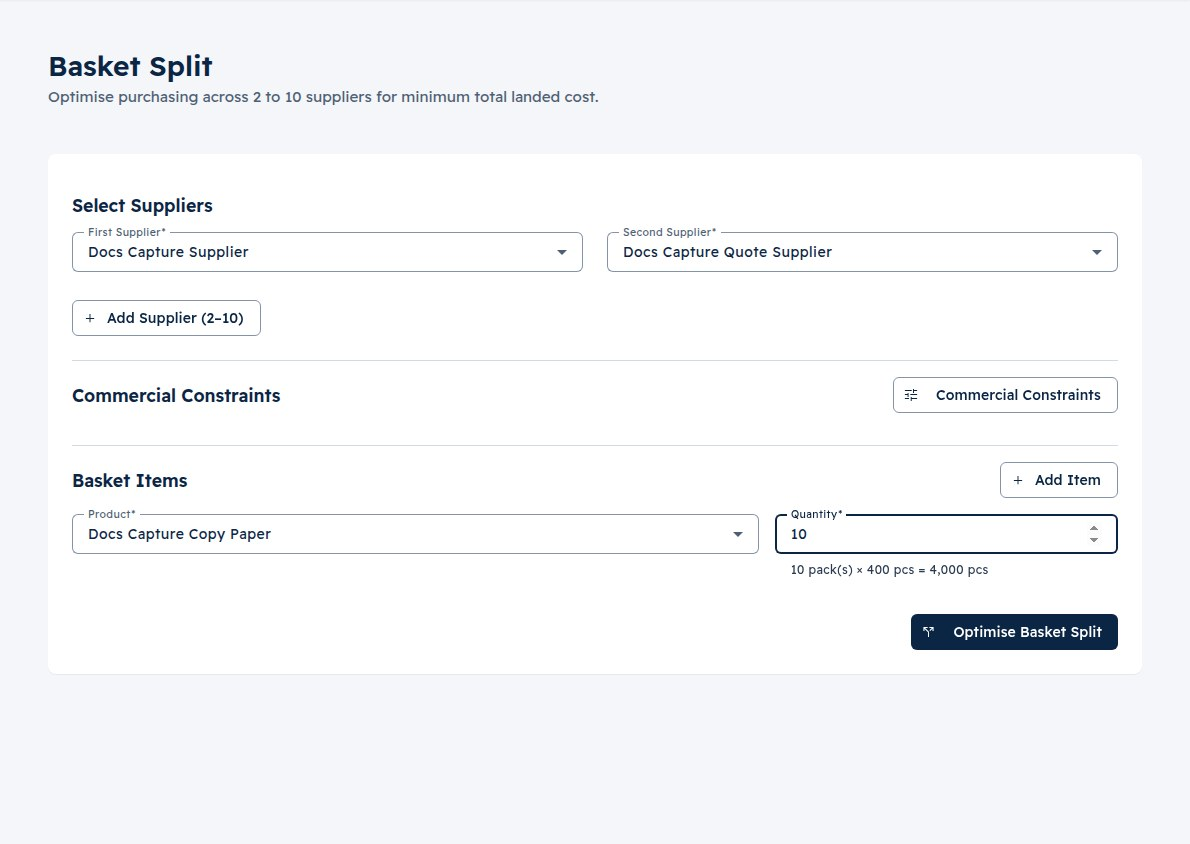
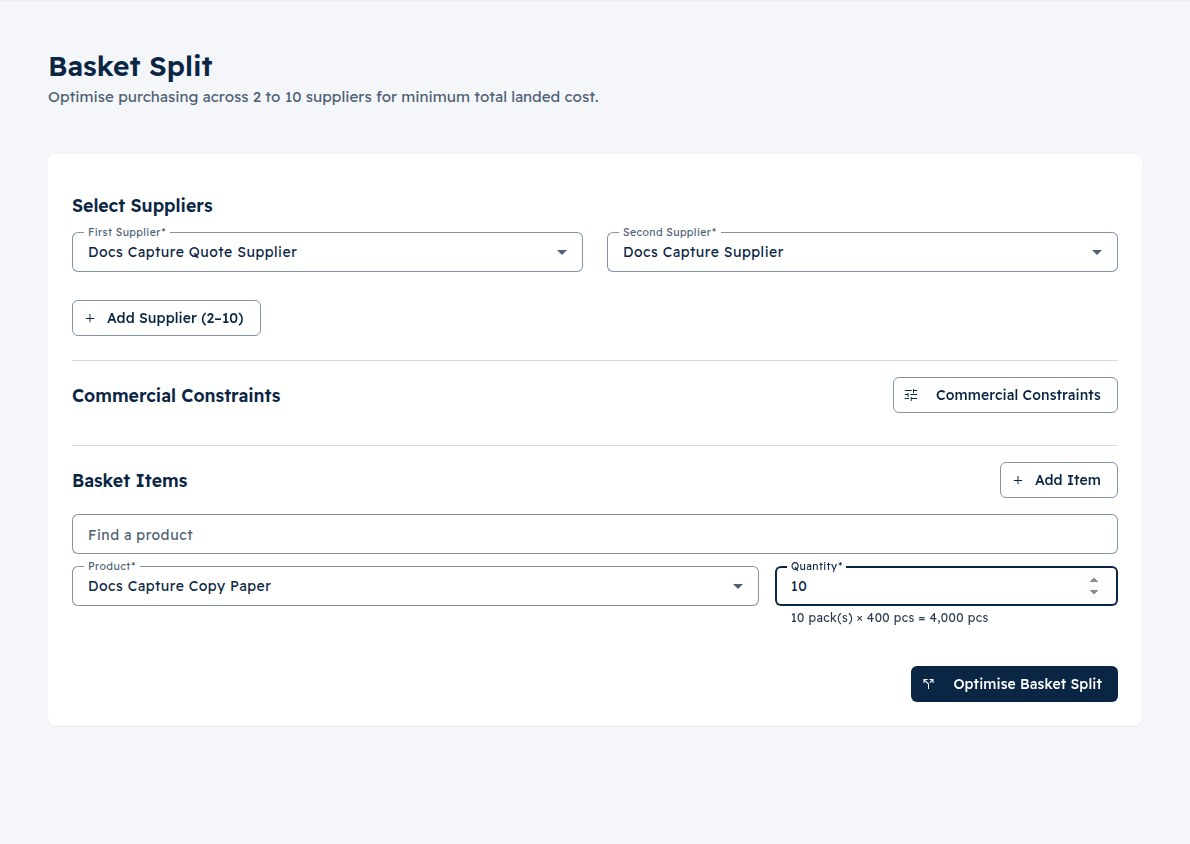
feat(basket-split): every supplier, product search and more products in the pickers (PPS-209) (#479)
* feat(basket-split): every supplier, product search and more products in the pickers (PPS-209)

* fix(basket-split): picker review fixes: names of searched products, Enter in search, rerun errors, stale answers (PPS-209)

* docs(screenshots): the basket split page now has a product search box

---------

diff --git a/apps/web/src/app/features/offers/basket-split/basket-split.component.ts b/apps/web/src/app/features/offers/basket-split/basket-split.component.ts
@@ -18,7 +18,7 @@ import { MatTableModule } from '@angular/material/table';
 import { MatTooltipModule } from '@angular/material/tooltip';
 import { ActivatedRoute, Router, RouterModule } from '@angular/router';
 import { TranslatePipe, TranslateService } from '@ngx-translate/core';
-import { Subscription, catchError, forkJoin, interval, map, of, switchMap } from 'rxjs';
+import { EMPTY, Subscription, catchError, expand, forkJoin, interval, map, of, reduce, switchMap } from 'rxjs';
 
 import { ApiService } from '../../../core/api/api.service';
 import type { ApiError, BasketSplitJobSummary, Product, Supplier } from '../../../core/api/models';
@@ -103,6 +103,13 @@ export class BasketSplitComponent implements OnInit {
   readonly rfqDetail = signal<RfqDetail | null>(null);
   readonly suppliers = signal<Supplier[]>([]);
   readonly products = signal<Product[]>([]);
+  /** Cursor for the next page of the current product list; null when it is complete. */
+  readonly productsCursor = signal<string | null>(null);
+  readonly hasMoreProducts = computed(() => this.productsCursor() !== null);
+  private productQuery = '';
+  /** Bumped by every new product search, so a slower answer to an older one is dropped. */
+  private productGeneration = 0;
+  private productSearchTimer: ReturnType<typeof setTimeout> | null = null;
   readonly isLoading = signal<boolean>(false);
   readonly isSubmitting = signal<boolean>(false);
 
@@ -265,14 +272,12 @@ export class BasketSplitComponent implements OnInit {
     this.isLoading.set(true);
     // The optimiser accepts active and preferred suppliers; both belong in the pickers.
     forkJoin({
-      active: this.api.suppliers({ limit: 100, status: 'active' }),
-      preferred: this.api.suppliers({ limit: 100, status: 'preferred' }).pipe(
-        catchError(() => of({ items: [] as Supplier[], next_cursor: null })),
-      ),
+      active: this.allSuppliers('active'),
+      preferred: this.allSuppliers('preferred').pipe(catchError(() => of([] as Supplier[]))),
     }).subscribe({
       next: ({ active, preferred }) => {
         const byId = new Map<string, Supplier>();
-        for (const supplier of [...active.items, ...preferred.items]) byId.set(supplier.id, supplier);
+        for (const supplier of [...active, ...preferred]) byId.set(supplier.id, supplier);
         const items = [...byId.values()].sort((a, b) => a.name.localeCompare(b.name));
         this.suppliers.set(items);
         if (items.length >= 2 && !this.supplierId1() && !this.supplierId2()) {
@@ -287,11 +292,71 @@ export class BasketSplitComponent implements OnInit {
     this.api.products({ limit: 100, status: 'active' }).subscribe({
       next: (res) => {
         this.products.set(res.items);
+        this.productsCursor.set(res.next_cursor);
       },
       error: () => {
         // Fallback silently if products load fails
       },
     });
+  }
+
+  /** Every page of the suppliers with this status (the API pages at 100). */
+  private allSuppliers(status: 'active' | 'preferred') {
+    return this.api.suppliers({ limit: 100, status }).pipe(
+      expand((res) =>
+        res.next_cursor ? this.api.suppliers({ limit: 100, status, cursor: res.next_cursor }) : EMPTY,
+      ),
+      reduce((all, res) => [...all, ...res.items], [] as Supplier[]),
+    );
+  }
+
+  /** Products already chosen stay available whatever the search shows. */
+  private mergeProducts(found: Product[], keepChosen = true): void {
+    const chosen = new Set(this.items().map((item) => item.workspace_product_id).filter(Boolean));
+    const byId = new Map<string, Product>();
+    for (const product of keepChosen ? this.products().filter((p) => chosen.has(p.id)) : []) byId.set(product.id, product);
+    for (const product of found) byId.set(product.id, product);
+    this.products.set([...byId.values()]);
+  }
+
+  /** Searches the catalogue by name after a short pause; an empty search lists the first page again. */
+  onProductSearch(query: string): void {
+    if (this.productSearchTimer) clearTimeout(this.productSearchTimer);
+    this.productSearchTimer = setTimeout(() => {
+      this.productQuery = query.trim();
+      const generation = ++this.productGeneration;
+      this.api
+        .products({ limit: 100, status: 'active', q: this.productQuery || undefined })
+        .pipe(takeUntilDestroyed(this.destroyRef))
+        .subscribe({
+          next: (res) => {
+            if (generation !== this.productGeneration) return;
+            this.mergeProducts(res.items);
+            this.productsCursor.set(res.next_cursor);
+          },
+          error: () => undefined, // the list stays as it was
+        });
+    }, 300);
+  }
+
+  /** The next page of the current list (all products, or the current search). */
+  loadMoreProducts(): void {
+    const cursor = this.productsCursor();
+    if (!cursor) return;
+    const generation = this.productGeneration;
+    this.api
+      .products({ limit: 100, status: 'active', cursor, q: this.productQuery || undefined })
+      .pipe(takeUntilDestroyed(this.destroyRef))
+      .subscribe({
+        next: (res) => {
+          if (generation !== this.productGeneration) return;
+          const byId = new Map(this.products().map((product) => [product.id, product] as const));
+          for (const product of res.items) byId.set(product.id, product);
+          this.products.set([...byId.values()]);
+          this.productsCursor.set(res.next_cursor);
+        },
+        error: () => undefined,
+      });
   }
 
   /** «Supplier A, Supplier B» for a history row. */
@@ -573,6 +638,7 @@ export class BasketSplitComponent implements OnInit {
           if (generation !== this.jobGeneration) return;
           this.currentJob.set(job);
           this.isLoading.set(false);
+          this.resolveMissingProducts(job);
           if (job.rfq_id) {
             this.rfqApi.getRfq(job.rfq_id).subscribe({
               next: (detail) => this.rfqDetail.set(detail),
@@ -596,6 +662,25 @@ export class BasketSplitComponent implements OnInit {
           this.handleError(err);
         },
       });
+  }
+
+  /** A job can use products beyond the first page the page loads: look those up by id. */
+  private resolveMissingProducts(job: BasketSplitJob): void {
+    const known = new Set(this.products().map((product) => product.id));
+    for (const item of job.items) {
+      if (known.has(item.workspace_product_id)) continue;
+      this.api
+        .product(item.workspace_product_id)
+        .pipe(takeUntilDestroyed(this.destroyRef))
+        .subscribe({
+          next: (product) => {
+            if (!this.products().some((p) => p.id === product.id)) {
+              this.products.set([...this.products(), product]);
+            }
+          },
+          error: () => undefined, // the id stays as the label
+        });
+    }
   }
 
   /** Starts a fresh job view: the previous job's poll and late answers must not touch it. */

diff --git a/apps/web/src/app/features/offers/basket-split/basket-split.component.spec.ts b/apps/web/src/app/features/offers/basket-split/basket-split.component.spec.ts
@@ -9,7 +9,7 @@ import { MatSelect } from '@angular/material/select';
 import { TranslateService, provideTranslateService } from '@ngx-translate/core';
 import en from '../../../../../../../packages/i18n/en.json';
 import ar from '../../../../../../../packages/i18n/ar.json';
-import { of, throwError } from 'rxjs';
+import { Subject, of, throwError } from 'rxjs';
 
 import { ApiService } from '../../../core/api/api.service';
 import { RfqApi } from '../../rfq/rfq-api';
@@ -125,9 +125,12 @@ describe('BasketSplitComponent (US3, T045)', () => {
       'products',
       'optimiseBasket',
       'getBasketSplitJob',
+      'product',
       'listBasketSplitJobs',
     ]);
 
+    // Looking up a product the page has not loaded fails by default; the label stays the id.
+    apiService.product.and.returnValue(throwError(() => new Error('unknown product')));
     apiService.listBasketSplitJobs.and.returnValue(of({ items: [], next_cursor: null }));
 
     mockRfqApi = jasmine.createSpyObj<RfqApi>('RfqApi', ['getRfq']);
@@ -1203,6 +1206,106 @@ describe('BasketSplitComponent (US3, T045)', () => {
       );
       expect(component.rerunNotice()).toBeFalse();
     });
+
+    // PPS-209: only the first 100 products and suppliers could be picked.
+    it('follows the supplier cursors so every supplier can be chosen', () => {
+      apiService.suppliers.and.callFake(((params?: { status?: string; cursor?: string }) => {
+        if (params?.status === 'preferred') return of({ items: [], next_cursor: null });
+        return params?.cursor === 'p2'
+          ? of({ items: [{ id: 'supp-3', name: 'Supplier Gamma', status: 'active', created_at: '' }], next_cursor: null })
+          : of({ items: [{ id: 'supp-1', name: 'Supplier Alpha', status: 'active', created_at: '' }], next_cursor: 'p2' });
+      }) as never);
+
+      component.loadSuppliersAndProducts();
+
+      expect(component.suppliers().map((x) => x.id)).toEqual(['supp-1', 'supp-3']);
+    });
+
+    it('loads further pages of products on request and does not duplicate any', () => {
+      const prod = (id: string) => ({ id, tenant_name: id, canonical_name: id, base_unit: 'EA', pack: { pack_count: 1, unit_size: '1' }, status: 'active', created_at: '' });
+      apiService.products.and.returnValues(
+        of({ items: [prod('prod-1')], next_cursor: 'c2' }) as never,
+        of({ items: [prod('prod-1'), prod('prod-2')], next_cursor: null }) as never,
+      );
+      component.loadSuppliersAndProducts();
+      expect(component.hasMoreProducts()).toBeTrue();
+
+      component.loadMoreProducts();
+
+      expect(apiService.products).toHaveBeenCalledWith(jasmine.objectContaining({ cursor: 'c2' }));
+      expect(component.products().map((x) => x.id)).toEqual(['prod-1', 'prod-2']);
+      expect(component.hasMoreProducts()).toBeFalse();
+    });
+
+    // Review: Enter in the search box submitted the whole basket form.
+    it('does not submit the basket when Enter is pressed in the product search', () => {
+      fixture.detectChanges();
+      const input = (fixture.nativeElement as HTMLElement).querySelector('[data-testid="product-search"]') as HTMLInputElement;
+      const event = new KeyboardEvent('keydown', { key: 'Enter', cancelable: true });
+      input.dispatchEvent(event);
+      expect(event.defaultPrevented).toBeTrue();
+    });
+
+    // Review: a product found by search is not in the first 100 the job page loads.
+    it('resolves the name of a job item whose product is not in the loaded list', () => {
+      component.products.set([]);
+      apiService.product.and.returnValue(
+        of({ id: 'prod-9', tenant_name: 'Basmati rice', canonical_name: 'rice', base_unit: 'EA', pack: { pack_count: 1, unit_size: '1' }, status: 'active', created_at: '' } as unknown as import('../../../core/api/models').Product),
+      );
+      apiService.getBasketSplitJob.and.returnValue(
+        of({ ...mockFeasibleJob, items: [{ workspace_product_id: 'prod-9', quantity: '3.000000' }] }),
+      );
+
+      component.fetchJob('job-1');
+
+      expect(apiService.product).toHaveBeenCalledWith('prod-9');
+      expect(component.getProductName('prod-9')).toBe('Basmati rice');
+    });
+
+    // Review: a failed rerun must be visible on the results view, not only in the form.
+    it('shows an error from a failed rerun above the results', () => {
+      const translate = TestBed.inject(TranslateService);
+      translate.setTranslation('en', en);
+      translate.use('en');
+      component.currentJob.set(mockFeasibleJob);
+      component.errorMessage.set('The rerun failed.');
+      fixture.detectChanges();
+      const alert = (fixture.nativeElement as HTMLElement).querySelector('[data-testid="job-error"]');
+      expect(alert?.getAttribute('role')).toBe('alert');
+      expect(alert?.textContent).toContain('The rerun failed.');
+    });
+
+    // Review: a slow answer to an older search must not replace the newer list.
+    it('ignores an older product search answer that arrives after a newer one', fakeAsync(() => {
+      const prod = (id: string) => ({ id, tenant_name: id, canonical_name: id, base_unit: 'EA', pack: { pack_count: 1, unit_size: '1' }, status: 'active', created_at: '' });
+      const first = new Subject<{ items: never[]; next_cursor: string | null }>();
+      const second = new Subject<{ items: never[]; next_cursor: string | null }>();
+      apiService.products.and.returnValues(first as never, second as never);
+      component.products.set([]);
+
+      component.onProductSearch('a');
+      tick(300);
+      component.onProductSearch('ab');
+      tick(300);
+      second.next({ items: [prod('newer') as never], next_cursor: null });
+      first.next({ items: [prod('older') as never], next_cursor: 'stale' });
+
+      expect(component.products().map((x) => x.id)).toEqual(['newer']);
+      expect(component.productsCursor()).toBeNull();
+    }));
+
+    it('searches products by name and keeps the products already chosen', fakeAsync(() => {
+      const prod = (id: string, name: string) => ({ id, tenant_name: name, canonical_name: name, base_unit: 'EA', pack: { pack_count: 1, unit_size: '1' }, status: 'active', created_at: '' });
+      component.products.set([prod('prod-1', 'Product 1') as never]);
+      component.items.set([{ workspace_product_id: 'prod-1', quantity: '1' }]);
+      apiService.products.and.returnValue(of({ items: [prod('prod-9', 'Basmati rice') as never], next_cursor: null }));
+
+      component.onProductSearch('rice');
+      tick(300);
+
+      expect(apiService.products).toHaveBeenCalledWith(jasmine.objectContaining({ q: 'rice' }));
+      expect(component.products().map((x) => x.id).sort()).toEqual(['prod-1', 'prod-9']);
+    }));
 
     // PPS-209: earlier splits could only be found through their URL.
     it('lists recent splits with a link to each and loads further pages', () => {

diff --git a/apps/web/src/app/features/offers/basket-split/basket-split.component.html b/apps/web/src/app/features/offers/basket-split/basket-split.component.html
@@ -36,6 +36,13 @@
 
   <div class="visually-hidden" role="status" aria-live="polite" data-testid="job-status-live">{{ liveStatus() }}</div>
 
+  @if (errorMessage() && currentJob() && uiState() !== 'failed' && uiState() !== 'completed_infeasible') {
+    <div class="error-banner" role="alert" data-testid="job-error">
+      <mat-icon aria-hidden="true">error_outline</mat-icon>
+      <span>{{ errorMessage() }}</span>
+    </div>
+  }
+
   <!-- Loading Initial Data -->
   @if (isLoading() && !currentJob()) {
     <div class="loading-container">
@@ -323,6 +330,18 @@
               <mat-icon aria-hidden="true">add</mat-icon>
               <span>{{ 'basketSplit.form.addItem' | translate }}</span>
             </button>
+          </div>
+
+          <div class="product-search">
+            <mat-form-field appearance="outline" subscriptSizing="dynamic" class="product-search-field">
+              <mat-label>{{ 'basketSplit.form.searchProducts' | translate }}</mat-label>
+              <input matInput type="search" (input)="onProductSearch($any($event.target).value)" (keydown.enter)="$event.preventDefault()" data-testid="product-search" />
+            </mat-form-field>
+            @if (hasMoreProducts()) {
+              <button mat-stroked-button type="button" (click)="loadMoreProducts()" data-testid="load-more-products">
+                {{ 'basketSplit.form.loadMoreProducts' | translate }}
+              </button>
+            }
           </div>
 
           <div class="items-list">

diff --git a/apps/web/src/app/features/offers/basket-split/basket-split.component.scss b/apps/web/src/app/features/offers/basket-split/basket-split.component.scss
@@ -337,6 +337,8 @@
 
 .visually-hidden { position: absolute; width: 1px; height: 1px; margin: -1px; padding: 0; overflow: hidden; clip: rect(0 0 0 0); white-space: nowrap; border: 0; }
 
+.product-search { display: flex; flex-wrap: wrap; gap: 0.75rem; align-items: center; margin-block-end: 0.75rem; }
+.product-search-field { flex: 1 1 240px; }
 .history-card { padding: 1rem 1.25rem; margin-block-end: 1rem; display: flex; flex-direction: column; gap: 0.5rem; }
 .history-list { list-style: none; margin: 0; padding: 0; display: flex; flex-direction: column; gap: 0.25rem; }
 .history-row { display: grid; grid-template-columns: auto minmax(0, 1fr) auto auto auto; gap: 0.75rem; align-items: center; padding: 0.4rem 0; color: inherit; text-decoration: none; }
